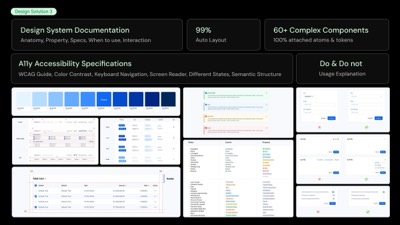
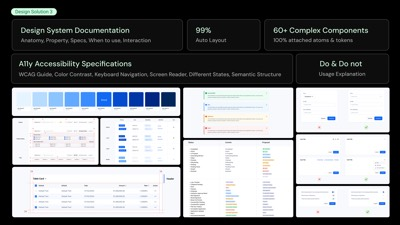
Re-export Design System slide at 3840px (higher resolution); bump ASSET_V

diff --git a/index.html b/index.html
@@ -22,7 +22,7 @@
 <link rel="preconnect" href="https://fonts.googleapis.com" />
 <link rel="preconnect" href="https://fonts.gstatic.com" crossorigin />
 <link href="https://fonts.googleapis.com/css2?family=Geist:wght@400;500;600;700&family=Inter:wght@400;500;600&family=JetBrains+Mono:wght@400;500;600&display=swap" rel="stylesheet" />
-<link rel="preload" as="image" href="slides/slide-01.jpg?v=3" />
+<link rel="preload" as="image" href="slides/slide-01.jpg?v=4" />
 <style>
   :root{
     --bg:#07080b; --card:#0d1015; --card-2:#0a0c10; --line:rgba(255,255,255,.08);
@@ -470,7 +470,7 @@
   ];
 
   const pad=n=>String(n).padStart(2,'0');
-  const ASSET_V='3'; // bump when a slide image is replaced, to bust browser cache
+  const ASSET_V='4'; // bump when a slide image is replaced, to bust browser cache
   const src=n=>`slides/slide-${pad(n)}.jpg?v=${ASSET_V}`;
   const thumb=n=>`slides/thumbs/slide-${pad(n)}.jpg?v=${ASSET_V}`;
   const deck=document.getElementById('deck');